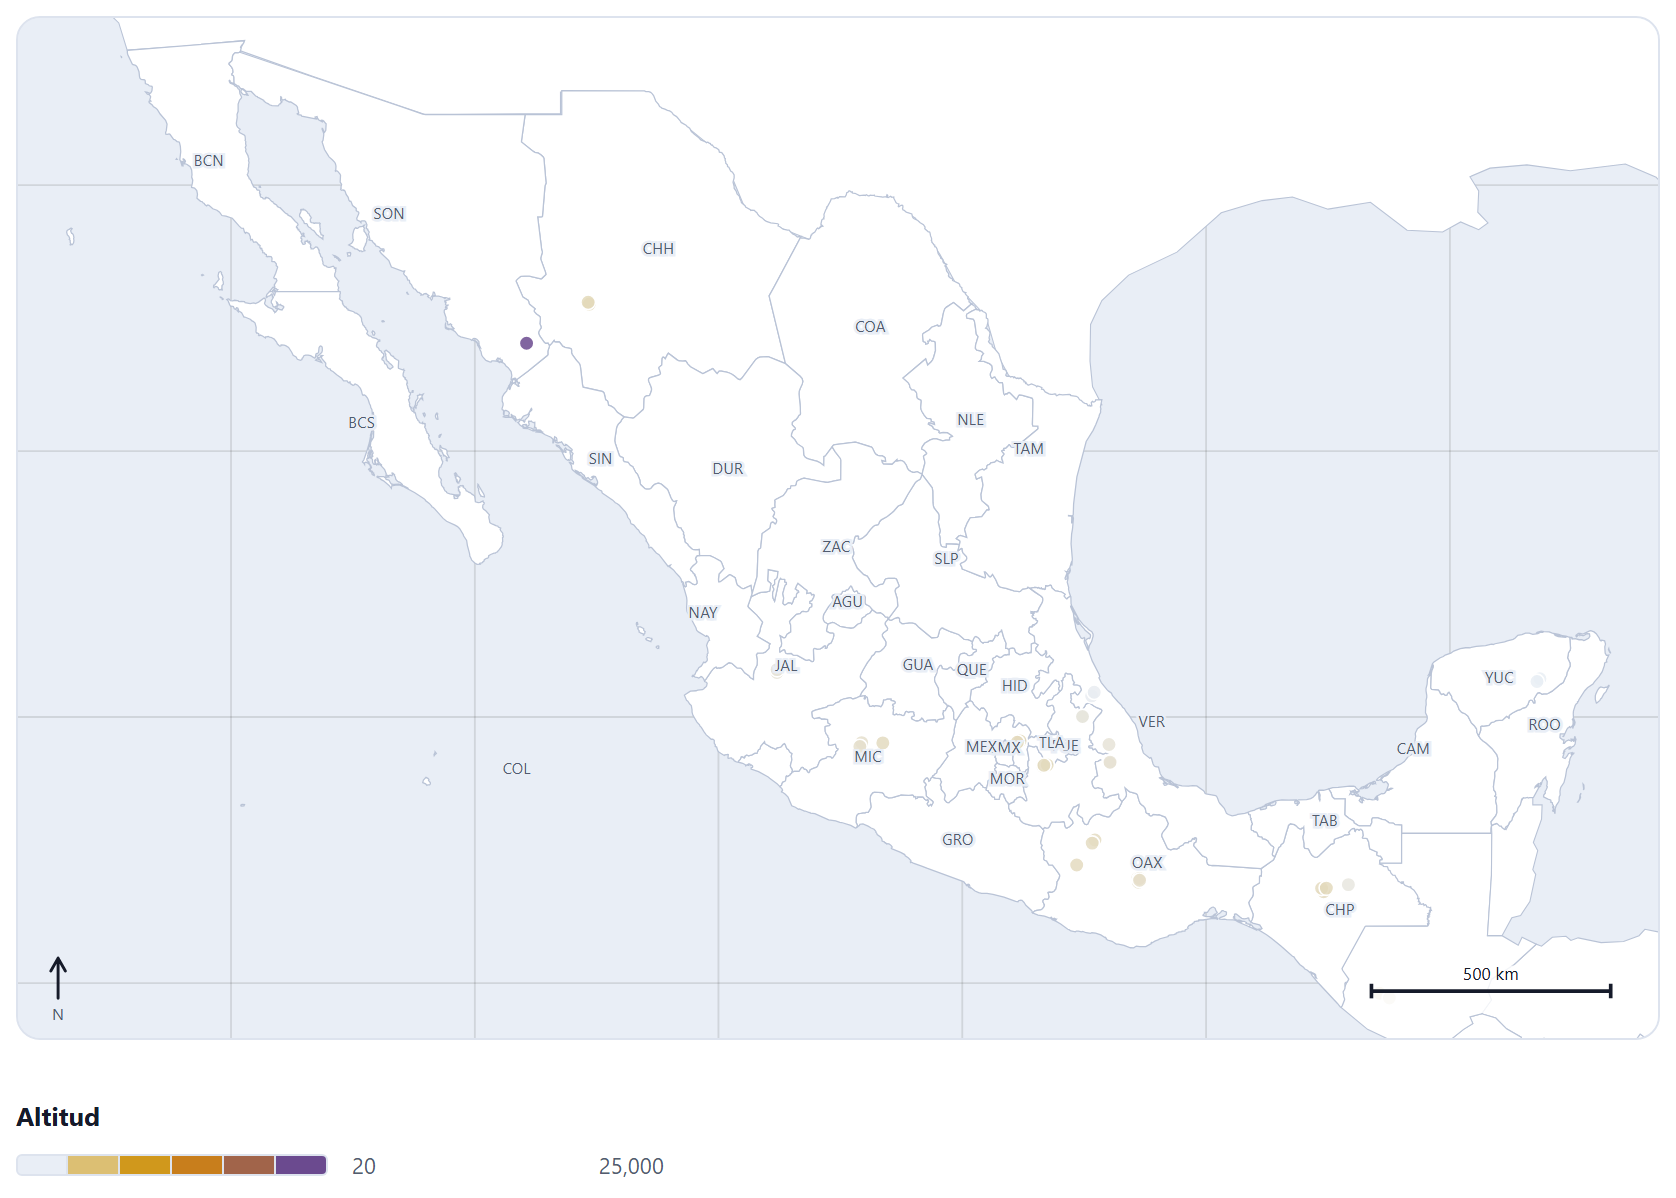
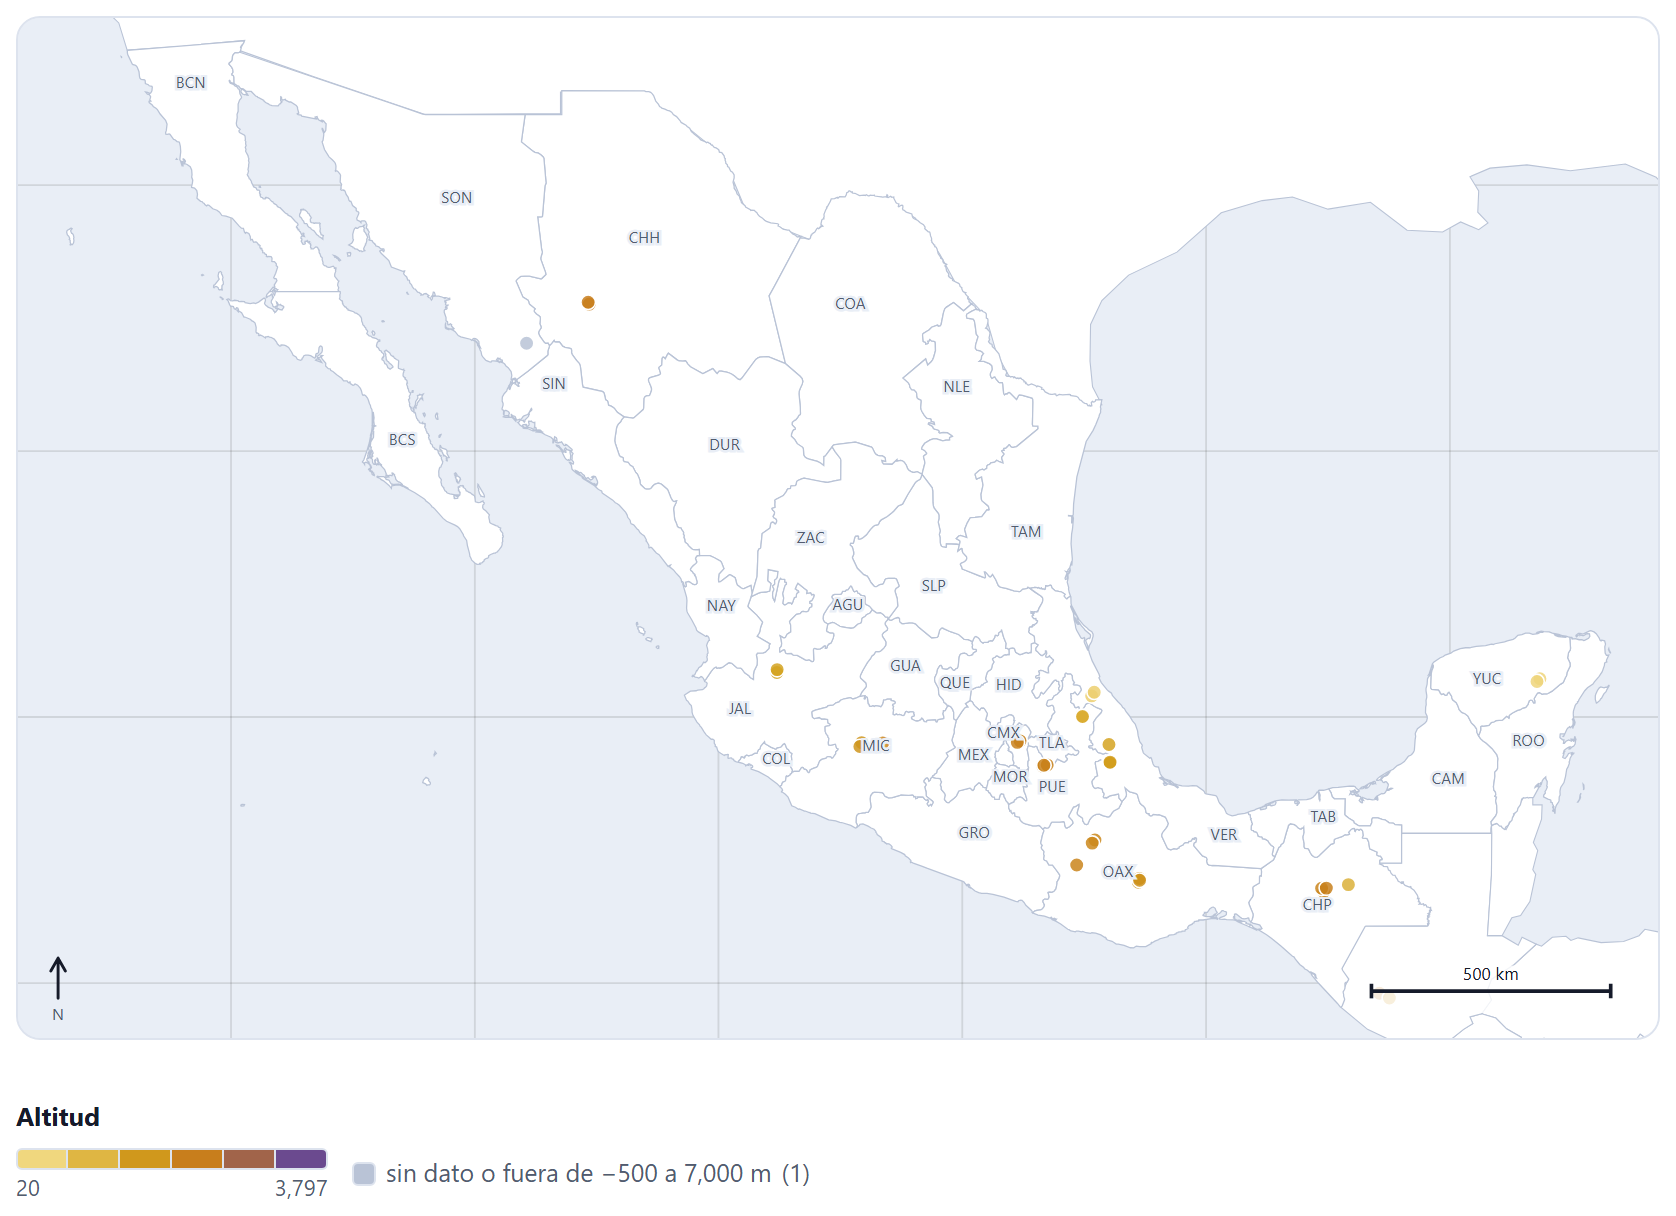
Manual en español: capítulo 4 al día con el Bloque 4 corregido
Altitud vacía o imposible en gris fuera de la escala (leyenda 20 – 3,797), rampa desde el oro pálido,
años sin separador de miles, claves de entidad en el interior del polígono y sin encimarse, puntos con
borde sobre la coropleta y la rejilla; las ocho capturas rehechas (b4-mundo sin cortar la leyenda).
16 hojas sin huecos grandes.

diff --git a/manual/es/04-bloque4.html b/manual/es/04-bloque4.html
@@ -137,7 +137,7 @@
   </figure>
   <h3>Cuándo se dibujan las entidades</h3>
   <p>Las 32 entidades se dibujan sólo cuando el encuadre abarca <b>45° de longitud o menos</b> y toca el rectángulo de México. En un encuadre más ancho, México se dibuja como un país más, con el contorno de 1:110 millones, y las claves de entidad desaparecen. Por eso, con la colección de ejemplo, el encuadre automático no muestra entidades: las accesiones de Etiopía y la India lo hacen tan ancho como el mundo. Si tu colección es de México y de otros países, elige <span class="ui">México completo</span> para ver las entidades.</p>
-  <p>El botón <span class="ui">claves de entidad</span>, encendido de fábrica, rotula cada entidad con su clave de tres letras en el centro de su rectángulo, con un halo del color del fondo para que se lea encima de los puntos y las líneas; con una coropleta por entidad, la clave lleva además la cuenta entre paréntesis (figura 4.5). Apágalo cuando el mapa vaya a una publicación y los rótulos estorben. Ojo con dos claves: <i>MEX</i> es el Estado de México y <i>CMX</i> la Ciudad de México, no el país.</p>
+  <p>El botón <span class="ui">claves de entidad</span>, encendido de fábrica, rotula cada entidad con su clave de tres letras en el punto de su interior más alejado de la orilla (en la parte mayor, si la entidad tiene islas, para que la clave de Colima no caiga en el mar). Si dos claves se enciman, la app corre una de ellas unos píxeles; una clave sin cuenta que no cabe en ningún lado se omite. Van con un halo del color del fondo para que se lea encima de los puntos y las líneas; con una coropleta por entidad, la clave lleva además la cuenta entre paréntesis (figura 4.5). Apágalo cuando el mapa vaya a una publicación y los rótulos estorben. Ojo con dos claves: <i>MEX</i> es el Estado de México y <i>CMX</i> la Ciudad de México, no el país.</p>
   <h3>Pasar el ratón y tocar un punto</h3>
   <p>Al pasar el ratón sobre un punto, el punto crece y, bajo el mapa, una línea resume la accesión: número, nombre, taxón, sitio, la entidad donde cae el punto, la altitud y la ruta. Con MEX-ZM-0001 dice <i>MEX-ZM-0001 · Maíz azul de Apoala · Zea mays · Oaxaca, Santiago Apoala · Oaxaca · 1993 m · Banco de semillas</i>. Al <b>tocar</b> el punto se abre su ficha en el Bloque 2, para revisarla o corregirla. El pie de la tarjeta lo recuerda: <span class="ui">Toca un punto para abrir su ficha; toca una entidad para acercarte a ella.</span></p>
 
@@ -154,17 +154,17 @@
       <tr><td><span class="ui">Estatus biológico</span> · <code>SAMPSTAT</code></td><td>categórica</td><td>Variedad tradicional o criolla (38), silvestre (4), natural (2), línea de mejorador (1).</td></tr>
       <tr><td><span class="ui">País de origen</span> · <code>ORIGCTY</code></td><td>categórica</td><td>México (36), Guatemala y Perú (2), Bolivia, Etiopía, India, Colombia y <i>MX</i> (1). Aquí sí manda el texto del pasaporte, no el lugar del punto.</td></tr>
       <tr><td><span class="ui">Fuente de colecta</span> · <code>COLLSRC</code></td><td>categórica</td><td>Parcela o campo (23), huerto familiar o solar (6), troje (5)… diez fuentes en total.</td></tr>
-      <tr><td><span class="ui">Altitud</span> · <code>ELEVATION</code></td><td>continua</td><td>De 20 a 25,000 m (figura 4.4).</td></tr>
+      <tr><td><span class="ui">Altitud</span> · <code>ELEVATION</code></td><td>continua</td><td>De 20 a 3,797 m; la de 25 000 m queda en gris, fuera de la escala (figura 4.4).</td></tr>
       <tr><td><span class="ui">Año de colecta</span> · año de <code>COLLDATE</code></td><td>continua</td><td>De 2014 a 2022.</td></tr>
     </tbody>
   </table>
   <p>Con una variable <b>categórica</b>, la app cuenta cuántos puntos hay de cada valor y da un color de su paleta a los <b>once valores más frecuentes</b>; los demás van en gris, bajo la etiqueta <i>los demás</i>. La leyenda trae cada valor con su número de puntos entre paréntesis. Cultivo y Especie tienen más de once valores en la colección de ejemplo (23 cultivos escritos y 24 taxones), así que en esas dos el gris junta varios. Fíjate en que el cultivo cuenta lo escrito: <i>Maíz</i> (14) y <i>Maiz</i> sin acento, el del duplicado sembrado, son dos valores distintos mientras no resuelvas el duplicado en el Bloque 3.</p>
-  <p>Con una variable <b>continua</b>, el color sale de una rampa que va del crema al ocre y al morado, lineal entre el valor mínimo y el máximo de los puntos; los puntos sin valor van en gris. La leyenda muestra la rampa en seis pasos con el mínimo y el máximo en los extremos.</p>
+  <p>Con una variable <b>continua</b>, el color sale de una rampa que va del oro pálido al oro, al ocre y al morado, lineal entre el valor mínimo y el máximo de los puntos. El oro pálido del extremo bajo se distingue del azul grisáceo del mar y del blanco de la tierra. Los puntos sin valor van en gris y fuera de la escala. En la altitud, un campo vacío es <i>sin dato</i>, no 0 m, y una altitud fuera de lo posible en tierra —menos de −500 m o más de 7 000 m— también va en gris, para que un error de captura no estire la escala. La leyenda muestra la rampa en seis pasos con el mínimo y el máximo bajo sus extremos (los años sin separador de miles: <i>2014</i>, <i>2022</i>) y, si hay puntos en gris, cuántos son: con la altitud, <span class="ui">sin dato o fuera de −500 a 7,000 m (1)</span>.</p>
   <figure class="mediana">
-    <div class="marco"><img src="../img/b4-altitud.png" alt="El mapa de México con los puntos coloreados por altitud: casi todos en crema pálido, apenas visibles, y uno solo en morado, en Sonora; leyenda Altitud de 20 a 25,000"></div>
-    <figcaption><b>Figura 4.4.</b> Los puntos coloreados por altitud con la colección recién cargada. La altitud de 25 000 m del frijol tepari de Sonora, un error sembrado, se queda con el morado y deja todas las demás en el extremo crema de la rampa.</figcaption>
+    <div class="marco"><img src="../img/b4-altitud.png" alt="El mapa de México con los puntos coloreados por altitud: los de tierras bajas de Veracruz y Yucatán en oro pálido, los del centro, Chihuahua, Oaxaca y Chiapas en oro y ocre, y uno en gris en Sonora; leyenda Altitud de 20 a 3,797 y sin dato o fuera de −500 a 7,000 m (1)"></div>
+    <figcaption><b>Figura 4.4.</b> Los puntos coloreados por altitud con la colección recién cargada. El frijol tepari de Sonora, con su altitud de 25 000 m (un error sembrado), queda en gris fuera de la escala, que va de 20 a 3 797 m. En México no hay puntos morados: el máximo está en los Andes, fuera del encuadre, porque la escala se calcula con todos los puntos y no sólo con los que se ven.</figcaption>
   </figure>
-  <p>La figura 4.4 enseña lo mismo que el histograma de altitud del Bloque 2 (figura 2.7): una rampa lineal entre el mínimo y el máximo se rinde ante un solo valor absurdo. Corrige la altitud de MEX-PH-0041 en su ficha —basta con tocar el punto morado— y la rampa se reparte entre 20 y 3 797 m como debe. Aun así, en una rampa que empieza en crema los puntos de menor altitud se distinguen poco del fondo; para una figura de altitudes, revisa los puntos más bajos o abre el mapa en el estudio de figuras (apartado 4.8) para cambiar la paleta.</p>
+  <p>La figura 4.4 es el contrapunto del histograma de altitud del Bloque 2 (figura 2.7), donde el mismo valor absurdo estira el eje hasta dejar casi todas las barras en las dos primeras clases. Aquí el valor imposible no entra en la escala: los 20 a 3 797 m se reparten entre los 44 puntos restantes, y el punto gris de Sonora queda a la vista como un pendiente. Tócalo, corrige la altitud en su ficha del Bloque 2 y, al volver, el punto toma su color y la leyenda deja de contarlo en gris.</p>
   <h3>Tamaño por existencias</h3>
   <p>El menú <span class="ui">Tamaño</span> tiene dos opciones. Con <span class="ui">tamaño fijo</span>, la de fábrica, todos los puntos miden 4 px de radio. Con <span class="ui">tamaño por existencias</span>, el radio crece con la raíz cuadrada de las existencias (<code>GP_STOCK</code>): r = 2.5 + 5.5 √(existencias / máximo). Con la raíz, el <b>área</b> del círculo, que es lo que el ojo compara, crece en proporción a las existencias. En la colección de ejemplo el máximo es de 3 200 semillas, y los radios van de 2.8 a 8 px. Es la manera de ver de un vistazo dónde está el material escaso, el que conviene regenerar (capítulo 8).</p>
   <h3>Los filtros por cultivo y por ruta</h3>
@@ -180,7 +180,7 @@
     <li><span class="ui">especies por entidad</span>: según cuántas especies distintas (género y epíteto) hay entre esos puntos;</li>
     <li><span class="ui">accesiones por país</span>: cada país, según cuántos puntos caen en él. Si el mapa muestra las entidades, todas se pintan con el valor de México.</li>
   </ul>
-  <p>El color sale de la misma rampa de los puntos, pero empieza en el 15 % para que la unidad con una sola accesión se distinga de la tierra vacía: la unidad con n accesiones se pinta con el tono 0.15 + 0.85 × n / máximo. Las unidades sin accesiones quedan en blanco. La leyenda sólo dice <i>pocas</i> y <i>muchas</i>; las cifras están en las claves del mapa y en las tablas (apartado 4.7).</p>
+  <p>El color sale de la misma rampa de los puntos, pero empieza en el 15 % para que la unidad con una sola accesión se distinga de la tierra vacía: la unidad con n accesiones se pinta con el tono 0.15 + 0.85 × n / máximo. Las unidades sin accesiones quedan en blanco. La leyenda sólo dice <i>pocas</i> y <i>muchas</i>; las cifras están en las claves del mapa y en las tablas (apartado 4.7). Sobre una coropleta o una rejilla, cada punto lleva un borde blanco grueso y un aro oscuro fino, para que se vea aunque sea del mismo color que la unidad que lo contiene.</p>
   <figure style="width:80%;margin-left:auto;margin-right:auto">
     <div class="marco"><img src="../img/b4-coropleta.png" alt="El mapa de México con la coropleta de accesiones por entidad: Oaxaca y Puebla en morado con 7, Veracruz en café rojizo con 6, Chiapas en naranja con 4, Michoacán con 3, Chihuahua, Jalisco, el Estado de México y Yucatán en ocre con 2 y Sonora en ocre claro con 1; las demás entidades en blanco; las claves con su cuenta entre paréntesis"></div>
     <figcaption><b>Figura 4.5.</b> La coropleta de accesiones por entidad, con <span class="ui">Un solo color</span> en los puntos. Diez entidades tienen colectas; Oaxaca y Puebla, con 7 cada una, llevan el morado del máximo.</figcaption>
@@ -190,7 +190,7 @@
     <div class="caja-t"><span class="ico">!</span>Una coropleta de cuentas favorece a las unidades grandes</div>
     <p>Chihuahua, con dos accesiones del mismo sitio, se pinta igual de fuerte que Jalisco con dos de dos especies, y su área enorme llama la atención más que la de Tlaxcala. Una coropleta de cuentas absolutas no corrige por el tamaño de la unidad ni por el esfuerzo de colecta. Para comparar regiones, usa la rejilla, de celdas iguales, o los índices rarificados del Bloque 5 (capítulo 5).</p>
   </div>
-  <figure>
+  <figure class="mediana">
     <div class="marco"><img src="../img/b4-mundo.png" alt="El mapa del mundo con la coropleta de accesiones por país: México en morado; Guatemala, Colombia, Perú, Bolivia, Etiopía, la India y Birmania en ocre claro; barra de escala de 5,000 km; leyendas de la ruta de conservación y de accesiones por país"></div>
     <figcaption><b>Figura 4.6.</b> El encuadre <span class="ui">El mundo</span> con la coropleta de accesiones por país y la colección recién cargada. Birmania aparece pintada por el maíz de Veracruz con la longitud sin signo.</figcaption>
   </figure>
@@ -285,7 +285,7 @@
       <tr><td>El mapa automático muestra medio mundo</td><td>Algún punto está lejos del resto: otro continente o un signo perdido. Mira dónde cae el punto aislado; si es un error, corrígelo en el Bloque 3. Si es real, elige <span class="ui">México completo</span> o una entidad.</td></tr>
       <tr><td>No se ven las entidades ni sus claves</td><td>El encuadre abarca más de 45° de longitud o no toca México. Elige <span class="ui">México completo</span> o una entidad; revisa también que <span class="ui">claves de entidad</span> esté encendido.</td></tr>
       <tr><td>Una accesión cuenta en otra entidad o en otro país</td><td>El punto cae ahí, aunque el pasaporte diga otra cosa. Toca el punto, revisa la coordenada en la ficha y compárala con el sitio de colecta.</td></tr>
-      <tr><td>Casi todos los puntos salen del mismo color pálido</td><td>Con una variable continua, un valor extremo acapara la rampa (figura 4.4). Corrige el valor o colorea por otra variable.</td></tr>
+      <tr><td>Con la altitud, un punto sale en gris</td><td>No tiene altitud o la que tiene es imposible (fuera de −500 a 7 000 m), como en la figura 4.4. Tócalo y corrige el dato en su ficha.</td></tr>
       <tr><td>Un valor sale en gris como <i>los demás</i></td><td>Sólo los once valores más frecuentes tienen color propio. Filtra por cultivo o por ruta.</td></tr>
     </tbody>
   </table>
